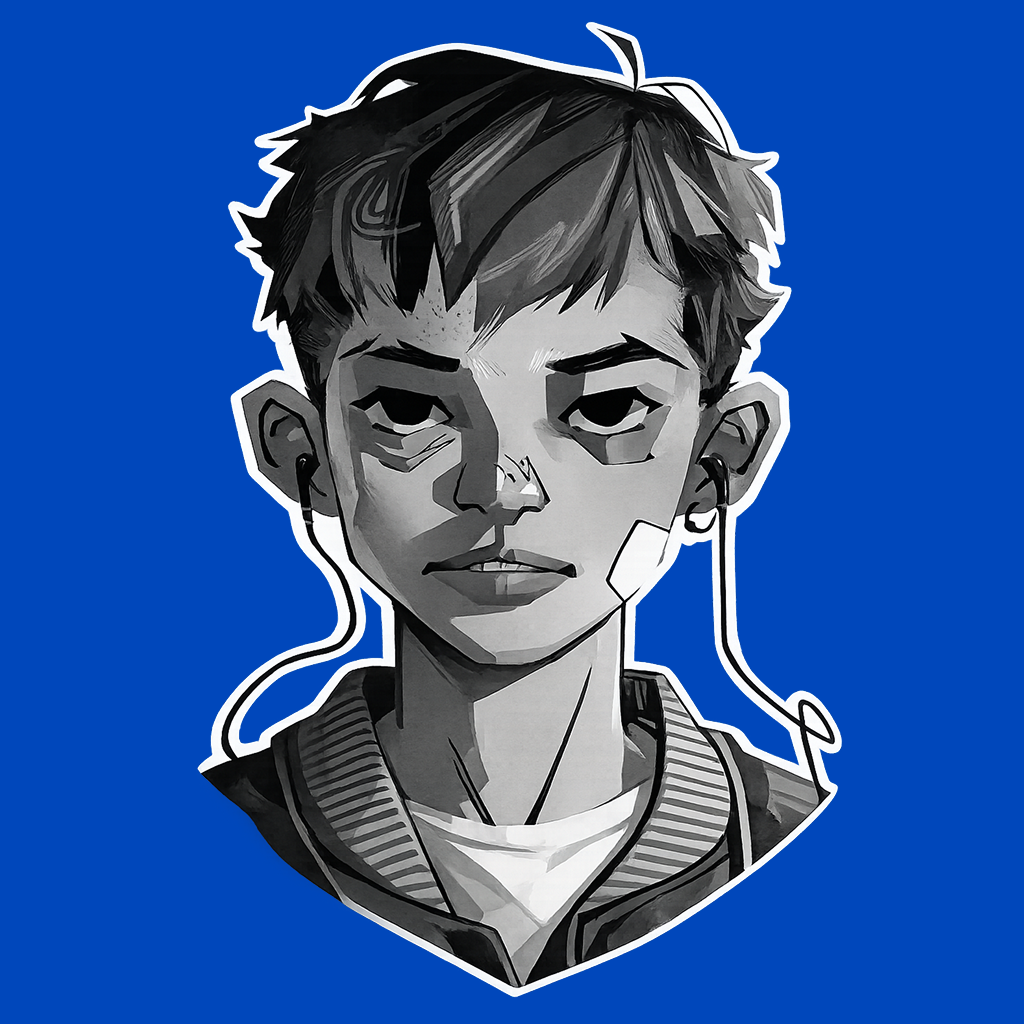
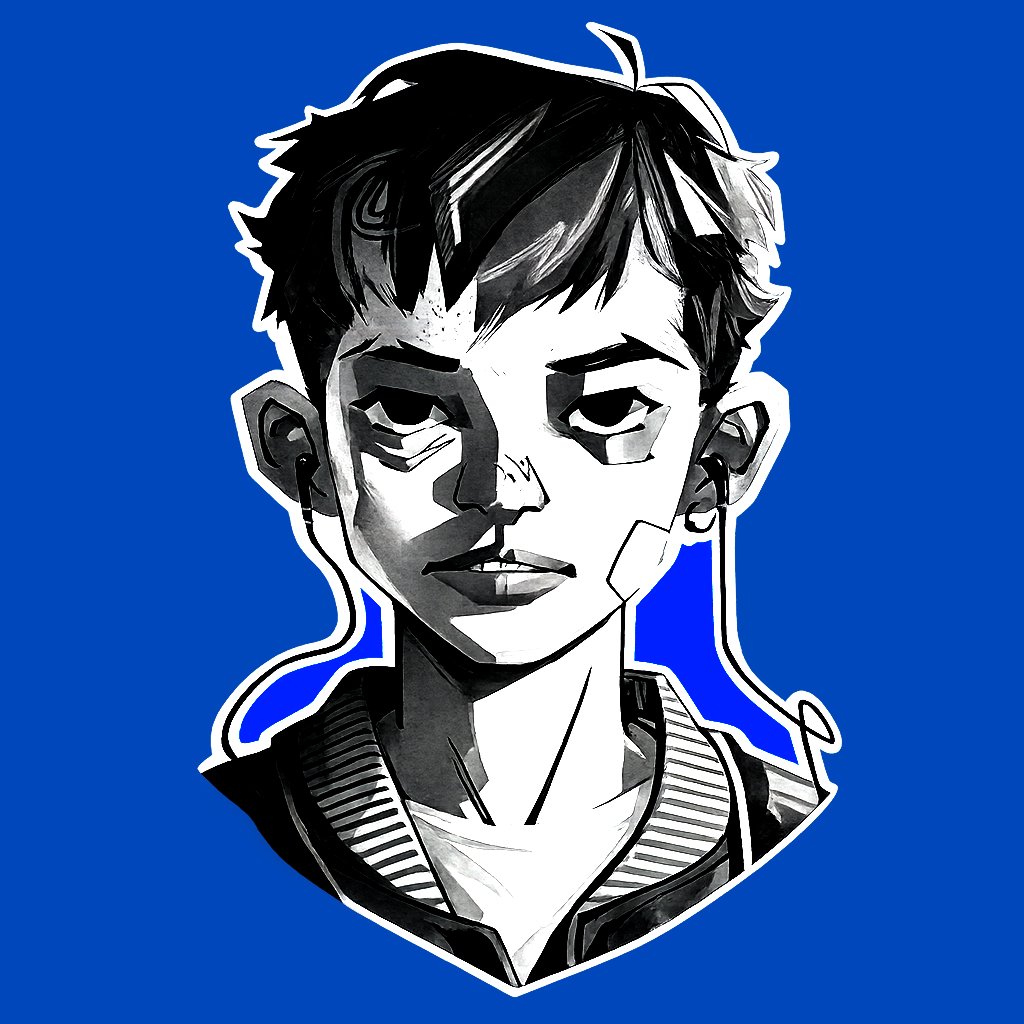
FACE v2: updated reference image, more exaggeration + slight expression
- Replace style-ref-2.png with the bolder updated reference (cache-bust via ?v=2)
- V2 prompt: strengthen feature exaggeration and add a slight expression push

Changed region(s): [[0.2188, 0.0312, 0.8125, 0.9688]]

diff --git a/src/face/versions.ts b/src/face/versions.ts
@@ -29,10 +29,13 @@ const V2_PROMPT =
   "colour), bold cel shading with subtle painterly texture and a clean white " +
   "keyline around the figure.\n\n" +
   "Avoid the big anime eyes from the reference but otherwise keep the style of " +
-  "the reference image with the cartoony proportions. Slightly exaggerate and " +
+  "the reference image with the cartoony proportions. Strongly exaggerate and " +
   "distort the most prominent features (nose, jaw, brow, ears, hairline) for a " +
-  "bold, characterful, slightly comic exaggeration, while keeping the person " +
-  "clearly recognizable and stylistically the same as the reference image. " +
+  "bold, characterful, comic caricature — push the exaggeration noticeably " +
+  "further than a subtle likeness — while keeping the person clearly " +
+  "recognizable and stylistically the same as the reference image. Also " +
+  "slightly exaggerate the character's facial expression, pushing their " +
+  "natural expression a little further for more personality. " +
   "Relight the character to match the lighting, black-and-white levels and " +
   "contrast of the reference image. Place the figure on a completely solid, " +
   "uniform #0047BB blue background — no other colors, no texture, no scenery, " +
@@ -53,7 +56,8 @@ export const FACE_VERSIONS: FaceVersion[] = [
     id: 2,
     label: "V2",
     prompts: [{ label: "V2", text: V2_PROMPT }],
-    styleRef: "/style-ref-2.png",
+    // ?v bump busts the browser cache when the reference image is updated
+    styleRef: "/style-ref-2.png?v=2",
     bg: "chroma",
   },
 ];